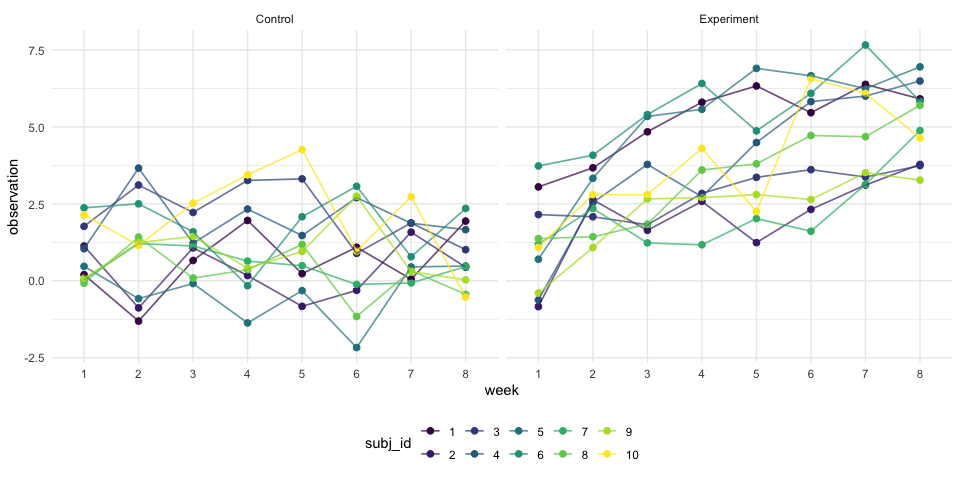
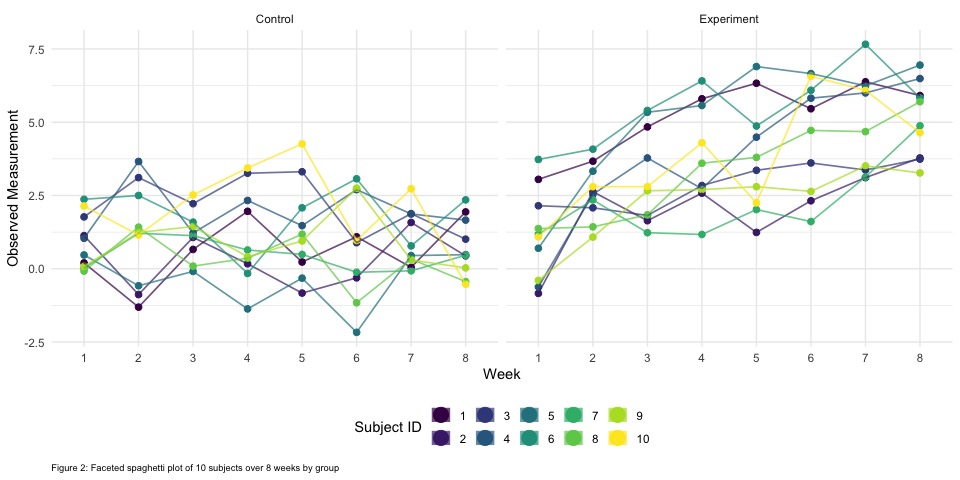
finished problem 2, on to 3

diff --git a/p8105_hw5_ksw2137.md b/p8105_hw5_ksw2137.md
@@ -1,6 +1,6 @@
 P8105 Data Science I - Homework 5
 ================
-Kevin S.W.
+Kevin S.W. UNI: ksw2137
 10/31/2019
 
 # Problem 1
@@ -60,7 +60,7 @@ numbers in `Sepal.Length` column, replaces `NA` in that column.
 
 # Problem 2
 
-We have a 20 files that contains 8-weeks longitudinal study result files
+We have 20 files that contains 8-weeks longitudinal study result files
 for 10 subjects under experiment and control arm. First, we need to
 consolidate this into 1 dataframe.
 
@@ -125,7 +125,15 @@ ggplot(clean_exp_df %>%                                                        #
   geom_line(data = clean_exp_df %>%                                            # line color by subject
               filter(group == "Control"), 
             aes(x = week, y = observation, color = subj_id, group = subj_id), 
-            size = 0.8, alpha = 0.5)
+            size = 0.8, alpha = 0.5) +
+  guides(color = guide_legend(override.aes = list(size = 5))) + # resize the color code for legends
+  labs(x = "Week",
+       y = "Observed Measurement",
+       caption = "Figure 1: Spaghetti plot of 10 subjects over 8 weeks under experimental and control group",
+       color = "Subject ID",
+       shape = "Group"
+       ) +
+  theme(legend.position = "right")
 ```
 
 <img src="p8105_hw5_ksw2137_files/figure-gfm/spaghetti_all-1.png" style="display: block; margin: auto;" />
@@ -140,7 +148,12 @@ clean_exp_df %>%                                                # base for facet
   ggplot(aes(x = week, y = observation, color = subj_id)) +     # give color by subjects
   geom_point(size = 2) + 
   geom_line(aes(group = subj_id), alpha = 0.7, size = 0.6) +
-  facet_grid(. ~ group)                                         # facet by group
+  facet_grid(. ~ group) +                                       # facet by group
+  guides(color = guide_legend(override.aes = list(size = 5))) + # resize the color code for legends
+  labs(x = "Week",
+       y = "Observed Measurement",
+       caption = "Figure 2: Faceted spaghetti plot of 10 subjects over 8 weeks by group",
+       color = "Subject ID")
 ```
 
 <img src="p8105_hw5_ksw2137_files/figure-gfm/spaghetti_facet-1.png" style="display: block; margin: auto;" />
